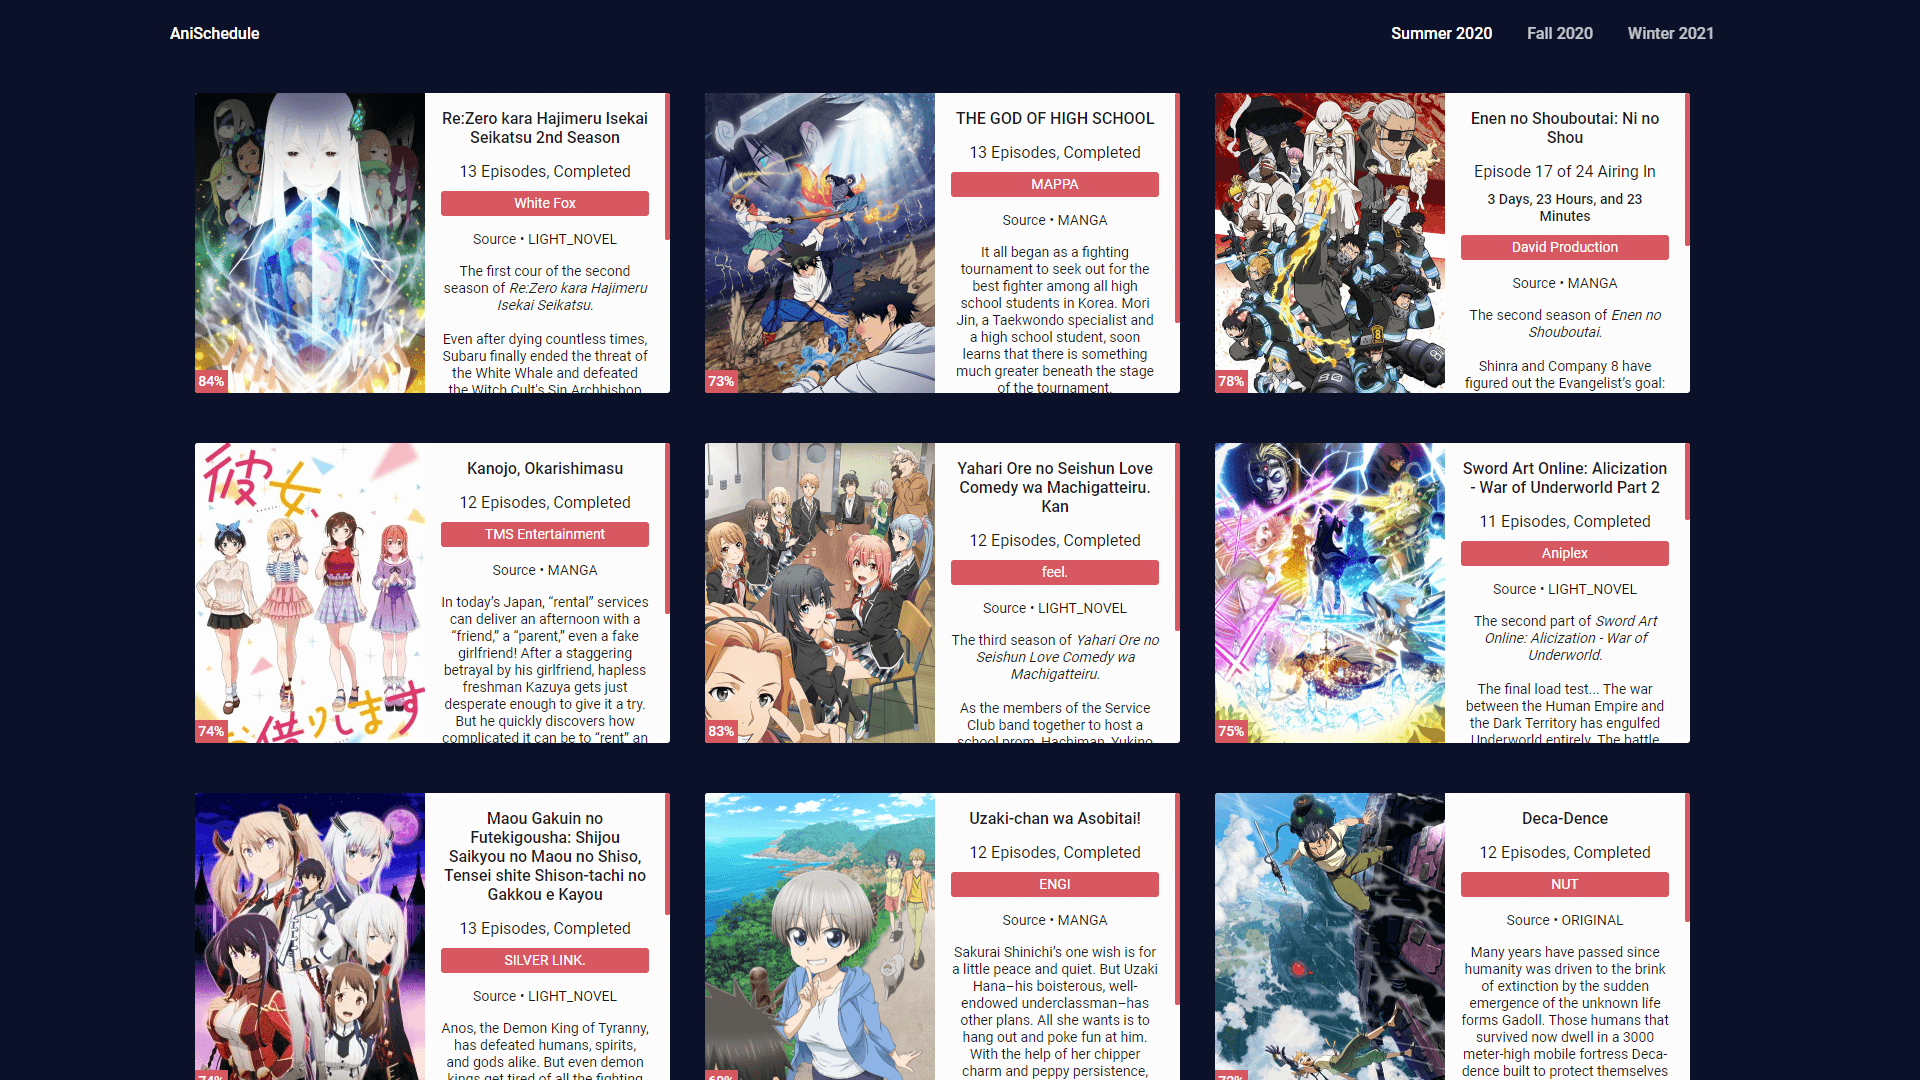
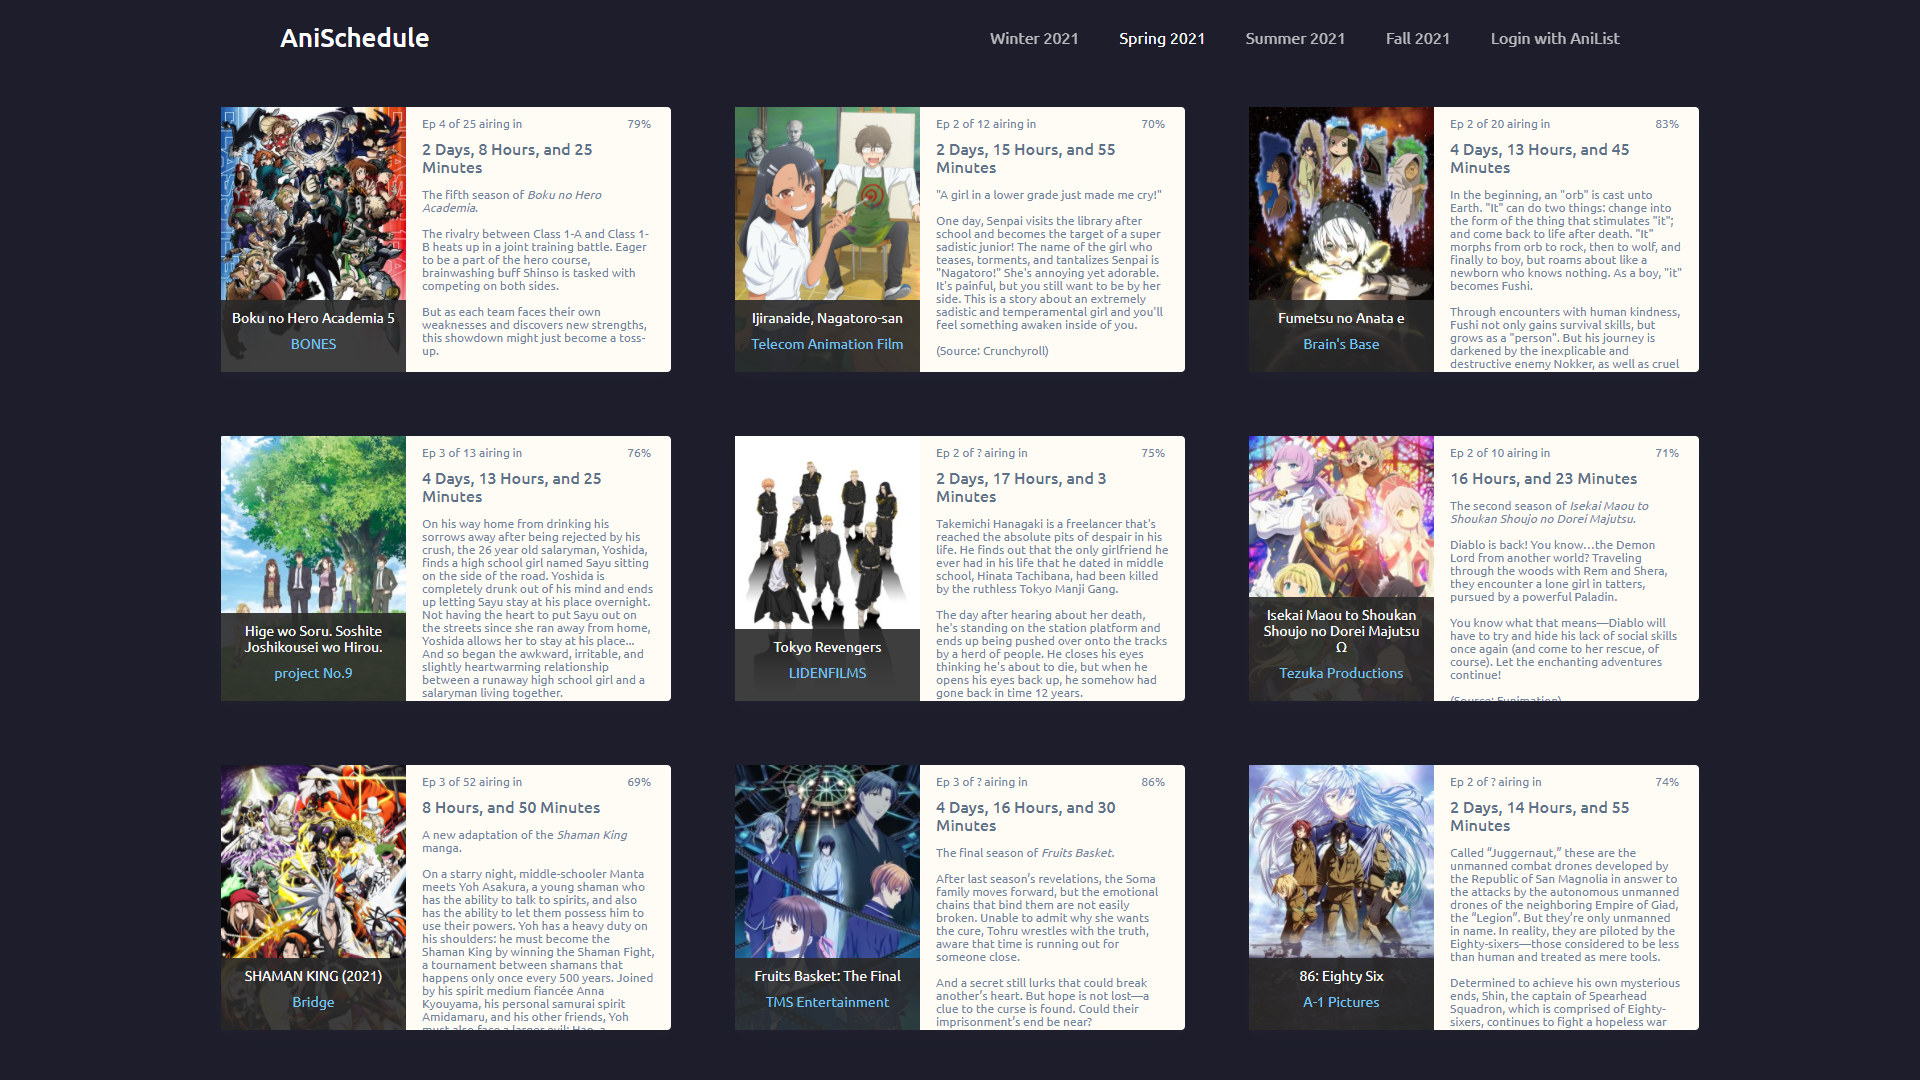
Added new picture

diff --git a/projects.html b/projects.html
@@ -37,6 +37,39 @@
           <div class="project-maincard">
             <div class="project-image">
               <a
+                href="https://anischedule.mjdiggs.com"
+                rel="noopener"
+                target="_blank"
+                ><img src="./images/anischedule.PNG" alt="anischedule"
+              /></a>
+            </div>
+            <div class="project-body">
+              <p class="cardtitle">AniSchedule</p>
+              <p class="description">
+                Displays current, past, and upcoming anime seasons and what
+                anime are airing. Shows information for each anime such as
+                official airing date, description, and when the next episode
+                comes out.
+              </p>
+              <div class="project-buttons">
+                <a
+                  href="https://github.com/mjdiggs18e/Anischedule-react"
+                  rel="noopener"
+                  target="_blank"
+                  ><button>View Code</button></a
+                >
+                <a
+                  href="https://anischedule.mjdiggs.com"
+                  rel="noopener"
+                  target="_blank"
+                  ><button>Live Site</button></a
+                >
+              </div>
+            </div>
+          </div>
+          <div class="project-maincard">
+            <div class="project-image">
+              <a
                 href="https://hardwareswap.mjdiggs.com"
                 rel="noopener"
                 target="_blank"
@@ -60,40 +93,6 @@
                 >
                 <a
                   href="https://hardwareswap.mjdiggs.com"
-                  rel="noopener"
-                  target="_blank"
-                  ><button>Live Site</button></a
-                >
-              </div>
-            </div>
-          </div>
-
-          <div class="project-maincard">
-            <div class="project-image">
-              <a
-                href="https://anischedule.mjdiggs.com"
-                rel="noopener"
-                target="_blank"
-                ><img src="./images/anischedule.PNG" alt="anischedule"
-              /></a>
-            </div>
-            <div class="project-body">
-              <p class="cardtitle">AniSchedule</p>
-              <p class="description">
-                Displays current, past, and upcoming anime seasons and what
-                anime are airing. Shows information for each anime such as
-                official airing date, description, and when the next episode
-                comes out.
-              </p>
-              <div class="project-buttons">
-                <a
-                  href="https://github.com/mjdiggs18e/Anischedule"
-                  rel="noopener"
-                  target="_blank"
-                  ><button>View Code</button></a
-                >
-                <a
-                  href="https://anischedule.mjdiggs.com"
                   rel="noopener"
                   target="_blank"
                   ><button>Live Site</button></a
@@ -215,37 +214,37 @@
 
     <script defer>
       var tl = gsap.timeline({ defaults: { duration: 1 } });
-      tl.from('.logo', {
+      tl.from(".logo", {
         opacity: 0,
         duration: 0.5,
         y: -50,
-        ease: 'Power-4.easeInOut',
+        ease: "Power-4.easeInOut",
       });
       tl.from(
-        'ul',
-        { opacity: 0, duration: 0.5, y: -50, ease: 'Power-4.easeInOut' },
-        '-=.4'
+        "ul",
+        { opacity: 0, duration: 0.5, y: -50, ease: "Power-4.easeInOut" },
+        "-=.4"
       );
       tl.from(
-        '.social-icons',
-        { opacity: 0, duration: 0.5, y: -50, ease: 'Power-4.easeInOut' },
-        '-=.4'
+        ".social-icons",
+        { opacity: 0, duration: 0.5, y: -50, ease: "Power-4.easeInOut" },
+        "-=.4"
       );
       tl.from(
-        '.project-title',
-        { opacity: 0, duration: 0.5, y: -50, ease: 'Power-4.easeInOut' },
-        '-=.4'
+        ".project-title",
+        { opacity: 0, duration: 0.5, y: -50, ease: "Power-4.easeInOut" },
+        "-=.4"
       );
       tl.from(
-        '.project-maincard',
+        ".project-maincard",
         {
           opacity: 0,
           duration: 0.5,
           y: -50,
           stagger: 0.1,
-          ease: 'Power-4.easeInOut',
+          ease: "Power-4.easeInOut",
         },
-        '-=.4'
+        "-=.4"
       );
     </script>
   </body>
